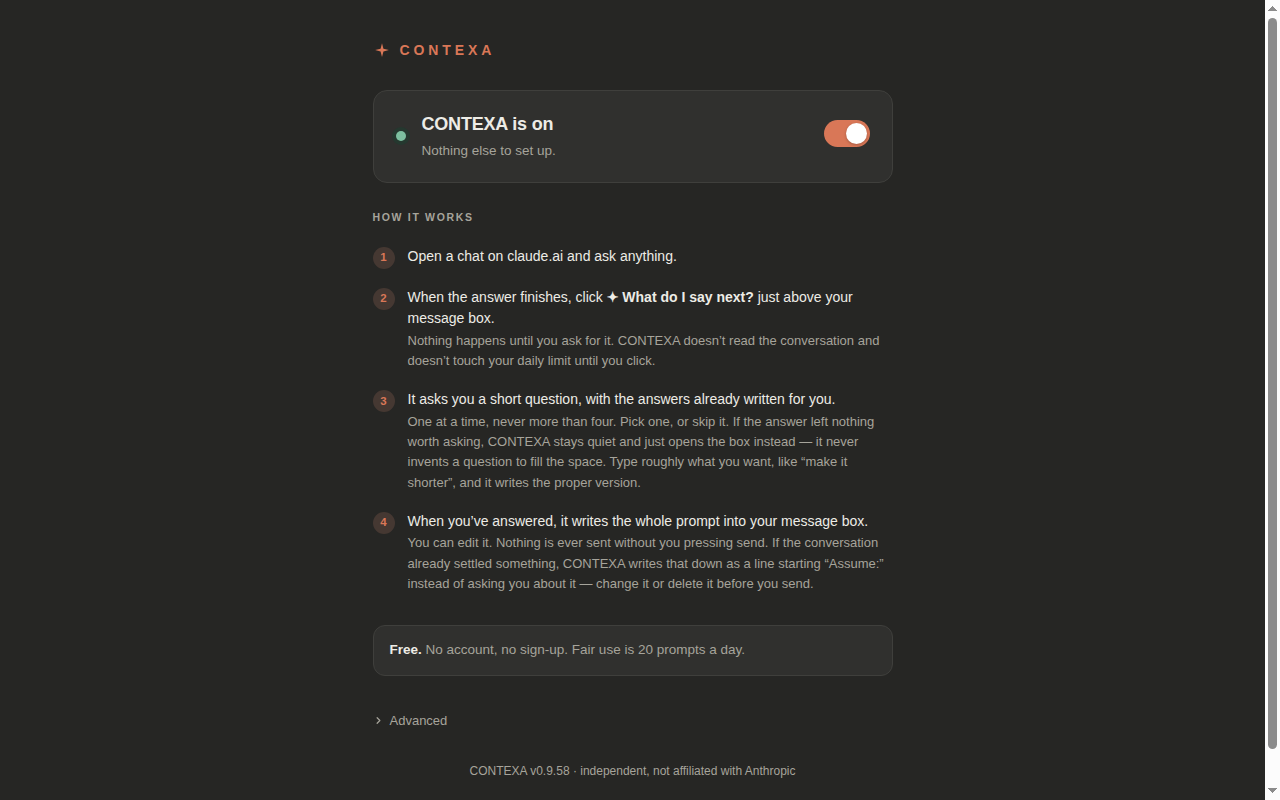
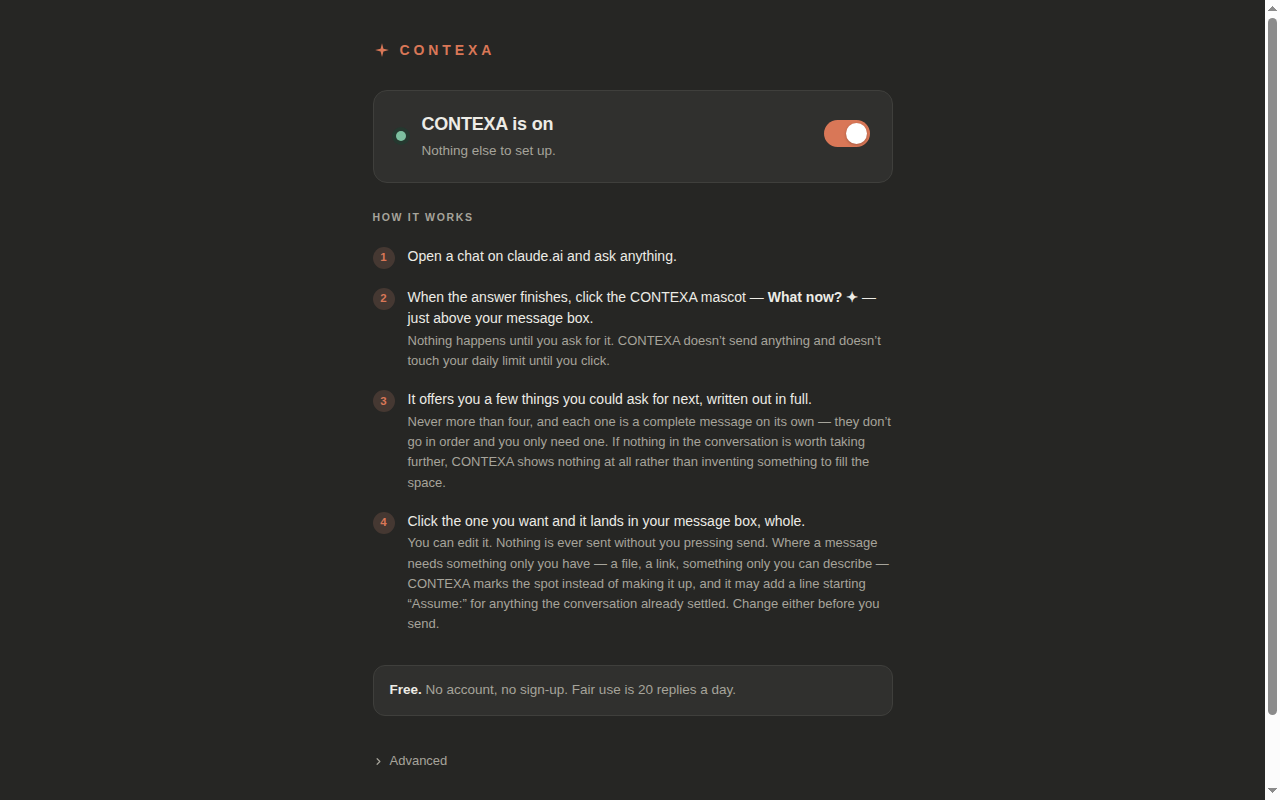
Say "nothing for now" instead of vanishing, and guard the copy JS writes
Step 5, part one. The zero state now renders an inert notice rather than
deleting the row.

Why this and not the other half of the request. Suppressing the trigger when a
reply earns nothing cannot save money — it would cost more. The trigger is drawn
at onReplyComplete, before any model call; knowing whether a reply earns
anything means making the call. Hiding it afterwards is the pre-0.9.53 auto-fire
model, removed precisely because it spent a call on every reply whether or not
anyone looked. The levers that do save money are already in place: replies under
120 chars draw no trigger, a session with no turns is refused before any call,
and re-clicking the same reply is served from cache.

The notice is free — the call is paid for by the time we know the answer is
empty — and it fixes a real defect. renderNothing() removed the row outright, so
the user clicked, waited, spent one of their twenty, and watched the UI vanish.
That is indistinguishable from a crash. 0.9.53 recorded this exact shape about
this state's predecessor: "they ASKED, and a chip that answers a click by
sitting there is a dead end." Silence was free while the row arrived unbidden.

Built to be incapable of becoming a floor, which is the way this would go wrong:
it borrows .quiet (the honest-degraded-state look the quota and error cards
already use), has no button, no click handler, no chip class, and
pointer-events:none so it cannot be clicked even by accident — every other
[…]

diff --git a/extension/content.js b/extension/content.js
@@ -128,6 +128,16 @@
     color:var(--text2);border-radius:6px;padding:2px 8px;font-size:10px;letter-spacing:.06em;
     text-transform:uppercase;cursor:pointer;font-family:inherit}
   .quiet button:hover{color:var(--accent);border-color:var(--accent)}
+  /* The zero notice. It borrows .quiet — the honest-degraded-state look shared
+     by the quota and error cards: dashed, muted, nothing chip-like about it.
+     What this rule adds is that it is INERT: no pointer events at all, so it
+     cannot be clicked, focused by click, or given a hover state. There is no
+     action here to offer, and an element that looks like it has one would be a
+     floor. (No backticks in this comment, and none anywhere else in this
+     literal — one would end the template early, and neither node --check nor a
+     regex over the source can see that. It cost a debugging round once.) */
+  .quiet.nothing{pointer-events:none;font-style:italic;display:inline-flex;
+    padding:5px 10px;opacity:.85}
   /* Still used by the mascot trigger's own busy state, which is the one
      control left that can be mid-flight. */
   .chip.busy{border-style:dashed;color:var(--text2);cursor:default;
@@ -512,7 +522,7 @@
          to answer — the fifth chip that used to catch a click returning nothing
          is gone, and there is deliberately no fallback behind it. */
       console.log('[CONTEXA] quiet row — nothing mined from this session');
-      return renderNothing();
+      return renderNothing(anchor);
     }
     console.log('[CONTEXA] moves', moves.map(m => m.label));
     renderMoves(anchor, moves);
@@ -804,11 +814,48 @@
     for (const m of moves) appendIdeaChip(row, m);
   }
 
-  /* Zero, rendered honestly: no row rather than an empty labelled shell. A
-     header over nothing reads as a broken card; absence reads as nothing to
-     say. The console line at the call site is what makes the rate measurable. */
-  function renderNothing() {
-    for (const old of document.querySelectorAll('[data-contexa]')) old.remove();
+  /* Zero, said out loud. This used to remove the row outright, on the reasoning
+     that a header over nothing reads as a broken card. True — but so does a UI
+     that vanishes. The user CLICKED: they waited, they spent one of their
+     twenty, and the row disappearing is indistinguishable from a crash. 0.9.53
+     already recorded this shape once, about the predecessor of this exact
+     state: "they ASKED, and a chip that answers a click by sitting there is a
+     dead end." Silence was free while the row arrived unbidden. It stopped
+     being free the moment it had to be asked for.
+
+     It costs nothing to say. By the time we know the answer is empty the call
+     is already paid for, so this is purely what gets drawn afterwards.
+
+     What it must NOT become is an offer. No button, no chip class, no hover,
+     no text that could be composed, and `pointer-events:none` so it cannot be
+     clicked even by accident — every other renderQuiet mode has an action, and
+     this one deliberately has none, because there is nothing here the user
+     could do. A "nothing for now" element that looks pressable is a floor
+     arriving through a side door, which is the shape MOVES_SYSTEM bans by name
+     and the shape every floor this project has recorded started as.
+
+     It leaves on its own. Saying its piece and then collapsing is the point:
+     the row is gone either way, the difference is that the user knows why. */
+  const NOTHING_LINGERS_MS = 4000;
+  function renderNothing(anchor) {
+    const wrap = shell(anchor, 'nothing');
+    if (!wrap) return;
+    const note = document.createElement('div');
+    note.className = 'quiet nothing';
+    note.textContent = 'Nothing for now.';
+    wrap.appendChild(note);
+    /* Reuses the scroll watcher's own fade rather than a second mechanism:
+       `.away` already collapses height and hides from the tab order, which is
+       what an element with nothing in it should do. */
+    setTimeout(() => {
+      if (!wrap.isConnected) return;
+      wrap.classList.add('away');
+      setTimeout(() => {
+        for (const old of document.querySelectorAll('[data-contexa]')) {
+          if (old.getAttribute('data-cx-mode') === 'nothing') old.remove();
+        }
+      }, 400);
+    }, NOTHING_LINGERS_MS);
   }
 
   /* One mined idea. The whole prompt is already written, so the click composes

diff --git a/extension/options.js b/extension/options.js
@@ -40,7 +40,7 @@ function paintState() {
   $('stateTitle').textContent = on ? 'CONTEXA is on' : 'CONTEXA is off';
   $('stateNote').textContent = on
     ? 'Nothing else to set up.'
-    : 'Suggestions will not appear until you turn it back on.';
+    : 'Next moves will not appear until you turn it back on.';
 }
 
 /* Toggling is the one control a beginner touches, so it saves itself. A Save
@@ -58,10 +58,10 @@ function paintMode() {
   $('modePill').textContent = own ? 'unlimited' : 'no key needed';
   $('modeDesc').textContent = own
     ? 'Requests go straight from this browser to Anthropic using your key. No daily limit, and Anthropic bills you directly for usage.'
-    : 'Questions and prompts come from the CONTEXA service. Nothing to set up, and a fair-use limit of 20 prompts a day.';
+    : 'Next moves come from the CONTEXA service. Nothing to set up, and a fair-use limit of 20 replies a day.';
   $('quotaLine').innerHTML = own
     ? '<b>Using your own key.</b> No daily limit — Anthropic bills you for what you use.'
-    : '<b>Free.</b> No account, no sign-up. Fair use is 20 prompts a day.';
+    : '<b>Free.</b> No account, no sign-up. Fair use is 20 replies a day.';
 }
 $('apiKey').addEventListener('input', paintMode);
 
@@ -105,7 +105,11 @@ $('test').addEventListener('click', async () => {
           // version/model make this a real answer about which backend is live,
           // not just a reachability ping.
           $('backendVer').textContent = r.version ? ' · backend v' + r.version : '';
-          flash(`Connected ✓ (${r.limit || 20}/day` + (r.model ? ', ' + r.model : '') + ')', true);
+          /* No `|| 20` fallback. That was a second copy of a number that
+             lives in one place on purpose, and the health check is precisely
+             where the real one is available — if it did not report a limit,
+             say so rather than guessing. */
+          flash(`Connected ✓ (${r.limit ? r.limit + '/day' : 'connected'}` + (r.model ? ', ' + r.model : '') + ')', true);
         } else {
           flash('Not reachable: ' + friendly(r && r.error), false);
         }
